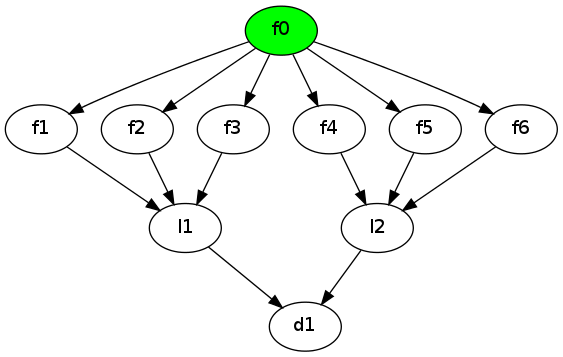
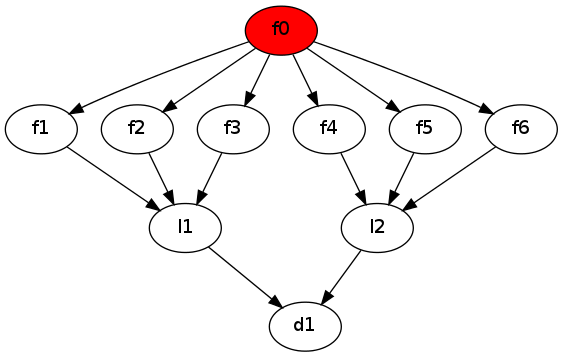
2012-03-06_18_00_01_01_00 :: 3 :: M => 3

Changed region(s): [[0.4227, 0.0, 0.5737, 0.1541]]

diff --git a/tools/joblaunch.py b/tools/joblaunch.py
@@ -199,17 +199,18 @@ class Job:
 
     outputFileWriter = None
 
-    def __init__(self, id_, commandsList, selfTest, **kwargs):
+    def __init__(self, id_, commandsList, **kwargs):
         self.id           = id_
         self.commands     = commandsList
         assert len(self.commands) > 0
         self.predecessors = set()
         self.successors   = set()
         #saulo
-        self.selfTest     = selfTest
         self.status       = NOT_RUN
+        self.selfTester   = kwargs.get('selfTest', self.getStatus)
         self.priority     = kwargs.get('priority', getPriority())
         self.deps         = kwargs.get('deps',     [])
+        self.ret          = -1
 
     def __call__(self):
         assert not self.predecessors
@@ -227,6 +228,9 @@ class Job:
     def getStatus(self):
         return self.status
 
+    def getReturn(self):
+        return self.ret
+
     def getCommands(self):
         return self.commands
 
@@ -243,38 +247,44 @@ class Job:
         return self.id
 
     def selfTest(self):
-        return self.selfTest()
+        return self.selfTester()
 
     def __repr__(self):
         return "Job %s" % self.id
 
     def __launch(self):
+        print "JOB :: " + self.id + " :: COMMANDS " + str(self.commands) + " (" + str(len(self.commands))+ ")"
         # IMPORTANT: In UNIX, Popen uses /bin/sh, whatever the user shell is
         for cmd in self.commands:
-            cmdFinal = ""
-            
+            print "JOB :: " + self.id + " :: CMD " + str(cmd)
             if   isinstance(cmd, types.FunctionType):
+                print "JOB :: " + self.id + " :: CMD " + str(cmd) + " :: IS FUNCTION"
                 self.ret = cmd(Job.outputFileWriter.writelnOut, Job.outputFileWriter.writelnErr, self.status, self.error)
                 if self.ret:
-                    print "JOB :: CMD " + str(cmd) + " :: IS FUNCTION :: RETURNED: " + str(self.ret) + " THEREFORE FAILED "
+                    print "JOB :: " + self.id + " :: CMD " + str(cmd) + " :: IS FUNCTION :: RETURNED: " + str(self.ret) + " THEREFORE FAILED "
                     self.status = FAILED
                     return
                 return
             elif isinstance(cmd, types.InstanceType):
+                print "JOB :: " + self.id + " :: CMD " + str(cmd) + " :: IS INSTANCE"
                 self.ret = cmd(Job.outputFileWriter.writelnOut, Job.outputFileWriter.writelnErr, self.status, self.error)
                 if self.ret:
-                    print "JOB :: CMD " + str(cmd) + " :: IS FUNCTION :: RETURNED: " + str(self.ret) + " THEREFORE FAILED "
+                    print "JOB :: " + self.id + " :: CMD " + str(cmd) + " :: IS FUNCTION :: RETURNED: " + str(self.ret) + " THEREFORE FAILED "
                     self.status = FAILED
                     return
                 return
             elif isinstance(cmd, types.MethodType):
+                print "JOB :: " + self.id + " :: CMD " + str(cmd) + " :: IS METHOD"
                 self.ret = cmd(Job.outputFileWriter.writelnOut, Job.outputFileWriter.writelnErr, self.status, self.error)
                 if self.ret:
-                    print "JOB :: CMD " + str(cmd) + " :: IS FUNCTION :: RETURNED: " + str(self.ret) + " THEREFORE FAILED "
+                    print "JOB :: " + self.id + " :: CMD " + str(cmd) + " :: IS FUNCTION :: RETURNED: " + str(self.ret) + " THEREFORE FAILED "
                     self.status = FAILED
                     return
                 return
             elif isinstance(cmd, types.ListType):
+                cmdFinal = ""
+                print "JOB :: " + self.id + " :: CMD " + str(cmd) + " :: IS LIST"
+
                 for part in cmd:
                     #print "  PART  '" + str(part) + "'"
     
@@ -296,7 +306,7 @@ class Job:
                 #print "  CMD F '" + str(cmdFinal) + "'"
     
                 try:
-                    print "OPENING PROCESS FOR CMD '" + cmdFinal + "'"
+                    print "JOB :: " + self.id + " :: OPENING PROCESS FOR CMD '" + cmdFinal + "'"
                     p = subprocess.Popen(cmdFinal, shell = True, executable="/bin/bash", stdout = subprocess.PIPE,
                         stderr = subprocess.STDOUT)
     
@@ -315,7 +325,7 @@ class Job:
                         #print "WAITING"
                         self.ret = p.wait()
                         if self.ret:
-                            print "JOB :: CMD " + str(cmd) + " :: IS FUNCTION :: RETURNED: " + str(self.ret) + " THEREFORE FAILED "
+                            print "JOB :: " + self.id + " :: CMD " + str(cmd) + " :: IS FUNCTION :: RETURNED: " + str(self.ret) + " THEREFORE FAILED "
                             self.status = FAILED
                             return
                         #print "FINISHED"
@@ -327,22 +337,27 @@ class Job:
                     except Exception, e:
                         print "Exception (Job__launch_out): ", e
                         self.status = FAILED
-                        self.error  = "JOB :: FAILED TO RUN " + cmdFinal + " EXCEPTION " + str(e)
+                        self.error  = "JOB :: " + self.id + " :: FAILED TO RUN " + cmdFinal + " EXCEPTION " + str(e)
                         self.ret    = 252
                         return
     
                 except Exception, e:
                     print "Exception (Job__launch): ", e
                     self.status = FAILED
-                    self.error  = "JOB :: FAILED TO RUN " + cmdFinal + " EXCEPTION " + str(e)
+                    self.error  = "JOB :: " + self.id + " :: FAILED TO RUN " + cmdFinal + " EXCEPTION " + str(e)
                     self.ret    = 253
                     return
     
                 if self.ret:
                     self.status = FAILED
-                    self.error  = "JOB :: FAILED TO RUN " + cmdFinal
+                    self.error  = "JOB :: " + self.id + " :: FAILED TO RUN " + cmdFinal
                     return
-            #print " REACHED END. FINISHING WITH STATUS " + str(self.status)
+            else:
+                self.status = FAILED
+                self.error  = "JOB :: " + self.id + " :: NOTHING TO RUN " + str(cmd)
+                return
+
+            print "JOB :: " + self.id + " :: REACHED END. FINISHING WITH STATUS " + str(self.status) + " " + str(self.ret)
             self.status = FINISH
             self.ret    = 0
 
@@ -674,10 +689,10 @@ def printG(G, jobs):
         job  = jobs[jobId]
         node = nodes[jobId]
         DEPS = job.getDeps()
-        print "ADDING NODE " + jobId
+        #print "ADDING NODE " + jobId + " STATUS: " + str(job.getStatus()) + " RETURN VALUE: " + str(job.getReturn())
         for DEP in DEPS:
             depId   = DEP.getId()
-            print "  DEP " + depId
+            #print "  DEP " + depId
             depNode = nodes[depId]
             graph.add_edge(pydot.Edge(depNode, node))
 
@@ -726,8 +741,6 @@ def printG(G, jobs):
 #start [shape=Mdiamond];
 #end [shape=Msquare];
 #}
-
-
 
     return str
 
@@ -832,13 +845,13 @@ if __name__ == "__main__":
         if False:
             main()
         else:
-            f1 = Job('f1', [['sleep 1; echo f1']], checkOut, deps=[] )
-            f2 = Job('f2', [['sleep 1; echo f2']], checkOut, deps=[] )
-            f3 = Job('f3', [['sleep 1; echo f3']], checkOut, deps=[] )
+            f1 = Job('f1', [['sleep 1; echo f1']] )
+            f2 = Job('f2', [['sleep 1; echo f2']] )
+            f3 = Job('f3', [['sleep 1; echo f3']] )
             l1 = Job('l1', [['sleep 1; echo l1']], checkOut, deps=[f1, f2, f3] )
-            f4 = Job('f4', [['sleep 1; echo f4']], checkOut, deps=[] )
-            f5 = Job('f5', [['sleep 1; echo f5']], checkOut, deps=[] )
-            f6 = Job('f6', [['sleep 1; echo f6']], checkOut, deps=[] )
+            f4 = Job('f4', [['sleep 1; echo f4']] )
+            f5 = Job('f5', [['sleep 1; echo f5']] )
+            f6 = Job('f6', [['sleep 1; echo f6']] )
             l2 = Job('l2', [['sleep 1; echo l2']], checkOut, deps=[f4, f5, f6] )
             d1 = Job('d1', [['sleep 1; echo d1']], checkOut, deps=[l1, l2] )
 

diff --git a/pypeline.py b/pypeline.py
@@ -35,18 +35,20 @@ for lib in setup.ldataset:
 sw = sampleWrapper.sampleWrapper("watever0")
 #TODO. MUST HAVE A __RUN__ FUNCTION TO BE CALLED WHEN RUN. CANT SENT INSTANTIATED 
 #FUNCTION ANYMORE DUE TO PICLKING
-f0 = joblaunch.Job('f0', [sampleWrapper.sample     ], joblaunch.checkOut, deps=[] )
-#f0 = joblaunch.Job('f0', [sw                      ], joblaunch.checkOut, deps=[] )
-#f0 = joblaunch.Job('f0', [['sleep 55;', 'echo f0']], joblaunch.checkOut, deps=[] )
-f1 = joblaunch.Job('f1', [['sleep 55;', 'echo f1']], joblaunch.checkOut, deps=[f0] )
-f2 = joblaunch.Job('f2', [['sleep 34;', 'echo f2']], joblaunch.checkOut, deps=[f0] )
-f3 = joblaunch.Job('f3', [['sleep 21;', 'echo f3']], joblaunch.checkOut, deps=[f0] )
-l1 = joblaunch.Job('l1', [['sleep 13;', 'echo l1']], joblaunch.checkOut, deps=[f1, f2, f3] )
-f4 = joblaunch.Job('f4', [['sleep  8;', 'echo f4']], joblaunch.checkOut, deps=[f0] )
-f5 = joblaunch.Job('f5', [['sleep  5;', 'echo f5']], joblaunch.checkOut, deps=[f0] )
-f6 = joblaunch.Job('f6', [['sleep  3;', 'echo f6']], joblaunch.checkOut, deps=[f0] )
-l2 = joblaunch.Job('l2', [['sleep  2;', 'echo l2']], joblaunch.checkOut, deps=[f4, f5, f6] )
-d1 = joblaunch.Job('d1', [['sleep  1;', 'echo d1']], joblaunch.checkOut, deps=[l1, l2] )
+#                  ID,   COMMAND                      SELFTEST=               DEPS=
+f0 = joblaunch.Job('f0', [sampleWrapper.sampleWrapper     ] )
+#f0 = joblaunch.Job('f0', [sampleWrapper.sample     ] )
+#f0 = joblaunch.Job('f0', [sw                      ] )
+#f0 = joblaunch.Job('f0', [['sleep 55;', 'echo f0']] )
+f1 = joblaunch.Job('f1', [['sleep 55;', 'echo f1']], deps=[f0] )
+f2 = joblaunch.Job('f2', [['sleep 34;', 'echo f2']], deps=[f0] )
+f3 = joblaunch.Job('f3', [['sleep 21;', 'echo f3']], deps=[f0] )
+l1 = joblaunch.Job('l1', [['sleep 13;', 'echo l1']], deps=[f1, f2, f3] )
+f4 = joblaunch.Job('f4', [['sleep  8;', 'echo f4']], deps=[f0] )
+f5 = joblaunch.Job('f5', [['sleep  5;', 'echo f5']], deps=[f0] )
+f6 = joblaunch.Job('f6', [['sleep  3;', 'echo f6']], deps=[f0] )
+l2 = joblaunch.Job('l2', [['sleep  2;', 'echo l2']], deps=[f4, f5, f6] )
+d1 = joblaunch.Job('d1', [['sleep  1;', 'echo d1']], deps=[l1, l2] )
 
 data = {'f0': f0,
         'f1': f1,

diff --git a/wrappers/sampleWrapper.py b/wrappers/sampleWrapper.py
@@ -29,7 +29,7 @@ class sampleWrapper():
         self.status = joblaunch.FINISH
         print "GOT STATUS " + str(status) + " RETURNING STATUS " + str(self.status)
         print "EXIT STATUS ORIGINAL " + str(self.exitStatus) + " NEW " + str(0)
-        self.exitStatus=1
+        self.exitStatus=0
         return self.exitStatus
 
 
